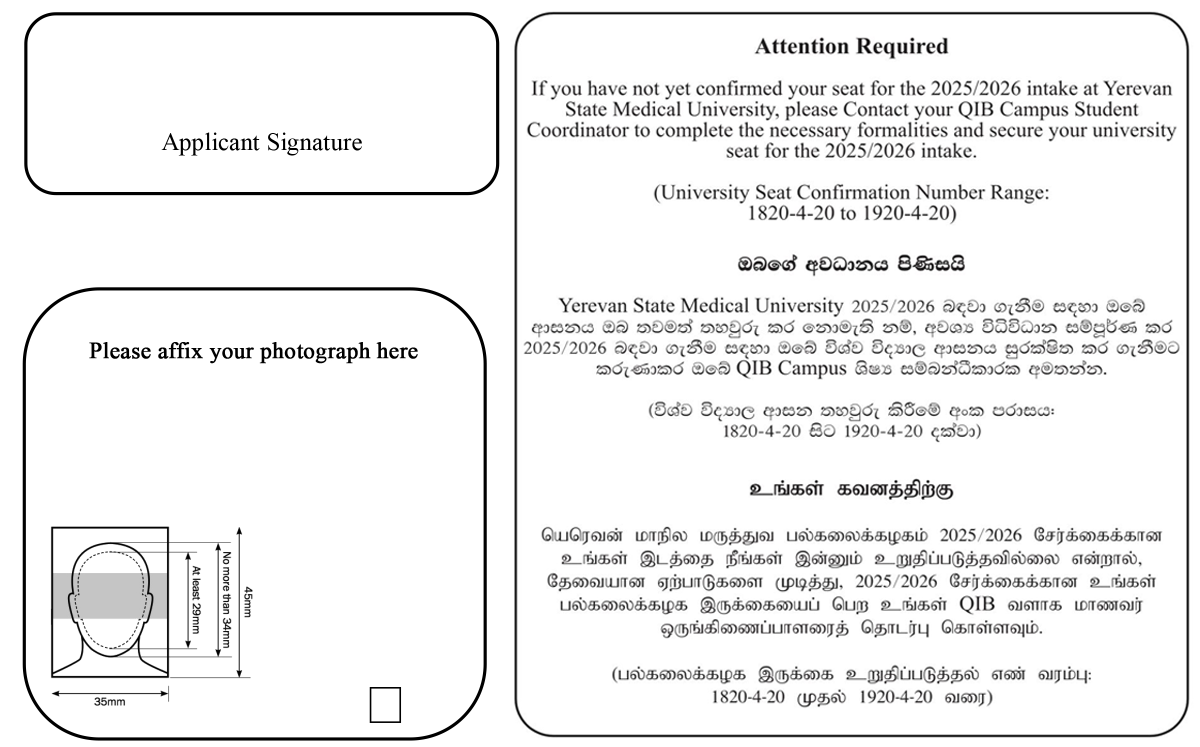
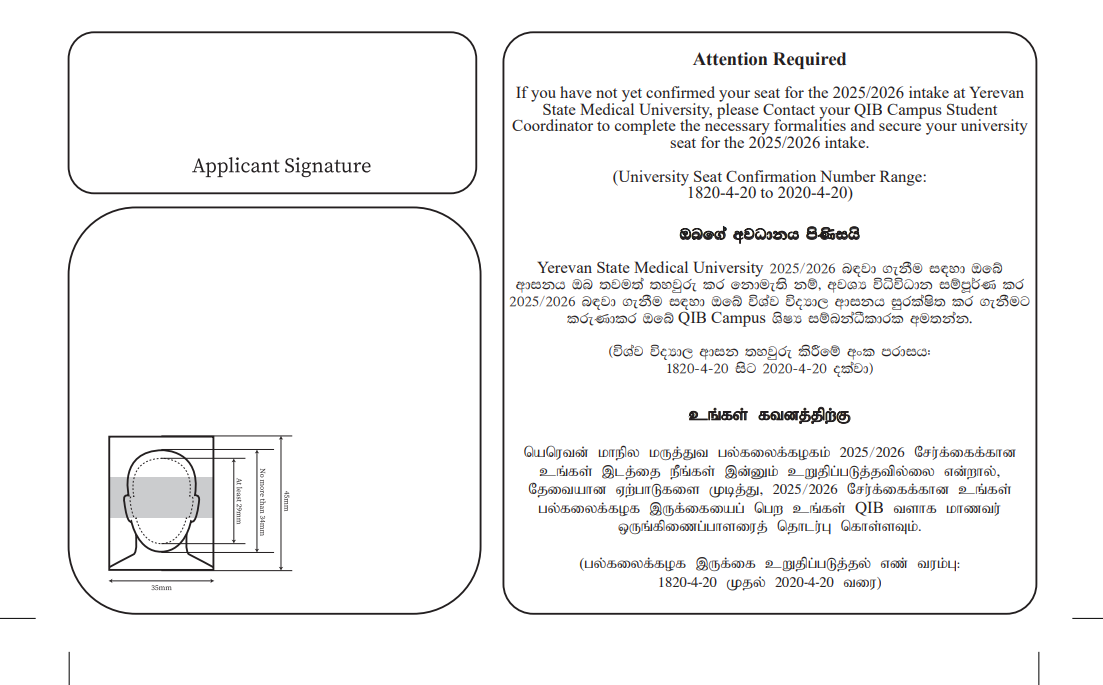
add changes

diff --git a/apps/qib-reg-app/apps/enrole/partial.html b/apps/qib-reg-app/apps/enrole/partial.html
@@ -36,8 +36,8 @@
   </div>
   <div class="form-group">
     <label for="contactno">University Seat Confirmation No:</label>
-    <div style="display: flex!important;"><input type="text" style="width: 200px;" class="form-control" id="whatsapp" aria-describedby="UniSeatHelp" placeholder="XXXX"  v-model="data.uniSeatNum" maxlength="4" size="4"><b>-4-20</b></div>
-    <small id="UniSeatHelp" class="form-text text-muted">Range 1829-4-20 to 1920-4-20.</small>
+    <div style="display: flex!important;"><input type="text" style="width: 200px;" class="form-control" id="whatsapp" aria-describedby="UniSeatHelp" placeholder="XXXX"  v-model="data.uniSeatNum" maxlength="4" size="3"><b>-4-20</b></div>
+    <small id="UniSeatHelp" class="form-text text-muted">Range 1829-4-20 to 2020-4-20.</small>
   </div>
   <div class="form-group">
     <label for="contactno">University Seat Booking No:</label>
@@ -74,7 +74,7 @@
   </div>
   <div class="form-group">
     <label for="exampleInputPassword1">Exam Center :</label>
-    Taj Samudra Hotel, Colombo 
+    5th-09-2025 1.30pm BMICH Entrance Exam
     <!--
     <select class="form-control mb15" data-placeholder="Choose a Country..."  title="" v-model="data.center">
             <option value="">Choose a Exam Center...</option>

diff --git a/apps/qib-reg-app/service/app-handler/admision.php b/apps/qib-reg-app/service/app-handler/admision.php
@@ -88,18 +88,19 @@
   </tr>
   <tr>
     <td class="tg-0pky-name">EXAM DATE</td>
-    <td class="tg-0pky-value" colspan="2">4<sup>th</sup> May 2025</td>
+    <td class="tg-0pky-value" colspan="2">5<sup>th</sup> September 2025</td>
   </tr>
   <tr>
     <td class="tg-0pky-name">EXAM TIME</td>
-    <td class="tg-0pky-value" colspan="2">2:15PM to 3:45PM</td>
+    <td class="tg-0pky-value" colspan="2">1.30pm </td>
   </tr>
   <tr>
-    <td class="tg-0pky-name">UNIVERSITY SEAT CONFIRMATION NUMBER</BR>(RANGE 1820-4-20 TO 1920-4-20)</td>
+    <td class="tg-0pky-name">UNIVERSITY SEAT CONFIRMATION NUMBER</BR>(RANGE 1820-4-20 TO 2020-4-20)</td>
     <td class="tg-0pky-value" colspan="2"> 
-    <table style="width: 120Px;">
+    <table style="width: 140Px;">
       <tr>
-      <?=$this->drawBox(4,$data->uniSeatNum)?>
+      <td style="border-style:none!important;"><b>MBBS</b></td>
+      <?=$this->drawBox(4,($data->uniSeatNum==0?"":$data->uniSeatNum))?>
       <td style="border-style:none!important;"><b>-4-20</b></td>
       </tr>
     </table>
@@ -145,7 +146,7 @@
     <?php 
       $data->center="Colombo";
     ?>
-    <td class="tg-0pky-value" colspan="2"><h2>Taj Samudra Hotel</h2></br>25, Galle Face Center Road, Colombo</td>
+    <td class="tg-0pky-value" colspan="2"><h2>BMICH Jasmine Hall</h2>,</br> Bauddhaloka Mawatha, Colombo 07.</td>
   </tr>
   
 </tbody>

diff --git a/apps/qib-reg-app/service/app-handler/service.php b/apps/qib-reg-app/service/app-handler/service.php
@@ -99,6 +99,7 @@ class appService {
         $data = $req->Body(true);
         $data->regdate=time();
         $data->country=$this->getCountries()[$data->countrycode];
+        $data->projectId=3;
         $rec=SOSSData::Query("profile",urlencode("email:".$data->email));
             $data->profileid=0;
             if(!count($rec->result)>0){
@@ -186,7 +187,7 @@ class appService {
     }
 
     public function getCSV($req,$res){
-        $rec=SOSSData::Query("qibprofilerequest",null);
+        $rec=SOSSData::Query("qibprofilerequest","projectId:3");
         //var_dump($rec);
         
         header("Content-Type: text/csv");
